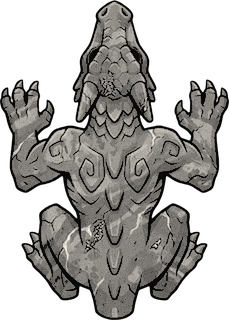
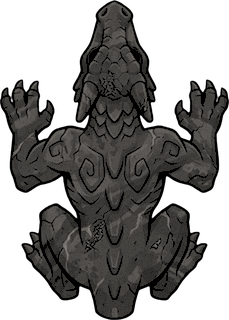
feat(dragon-tide): 宝石の見本3回目 照り返す向きを6か所に・軌道を毎回ランダムに・ガーゴイルの石の絵を暗く（DT-597）
Claude-Session: https://claude.ai/code/session_01PrzQnSZ8MSnuqMoiR2kG67

diff --git a/prototypes/dragon-tide/gem-sample.html b/prototypes/dragon-tide/gem-sample.html
@@ -38,7 +38,7 @@
 </head>
 <body>
 <main>
-  <h1>竜の見た目サンプル：宝石（ルース）2回目</h1>
+  <h1>竜の見た目サンプル：宝石（ルース）3回目</h1>
   <p class="lead">竜は竜のまま、色・質感・光り方だけをルース（裸石）から借りる案（DT-597）。
     照り返しは<strong>竜の向き（と地図上の位置）だけ</strong>で決まる。光源は見せない・動かさない・地面には何も出さない。
     同じ位置・同じ向きなら同じ照り返しになるので、群れが曲がると先頭から順にきらっと光が走る（イワシの群れのつもり）。</p>
@@ -136,6 +136,7 @@ const SPECIES = [
       wingAnchor: { x: 319, y: 66.9 },
     },
     // 普通の石は不透明でほぼ光らない：照り返しは薄く、翼も透けない。差は明るさのむらで出す
+    // DT-597 3回目（Shooter「全然光って見えないのは絵のせい？元の絵をもっと暗く」）: 石の絵を半分ほどの明るさにして、鈍い照り返しが見えるように
     gloss: 0.18, glintColor: "#f2ede4", hueJitter: 5, lightJitter: 0.1, wingAlpha: [1, 1],
   },
 ];
@@ -262,15 +263,13 @@ function drawDragon(c, spec, parts, flapFactor, opts) {
 // 光源は見せない・動かさない。「この向きを向いた竜はきらっとする」という向きを地図に1つ決めておくだけ。
 // 時間は使わないので、同じ位置・同じ向きの竜はいつでも同じ照り返しになる。
 // 群れが曲がると、先頭から順にその向きを通るので、光が群れの中を走って見える（イワシの群れのつもり）。
-const GLINT_HEADING = 0.35;  // きらっとする向き（右やや下へ飛ぶ向きと、その逆。8の字の長い斜めでは光らず、曲がるときに光が群れを走るように選んだ）
+const GLINT_HEADING = 0.35;  // きらっとする向きの基準（ここから60°おきに6つ）
 const GLINT_FULL = 8 * Math.PI / 180; // この角度までは照り返しが最大
 const GLINT_EDGE = 28 * Math.PI / 180; // ここまでで段々に消える
-// 向きの窓は2つ：きらっとする向きへ飛ぶ（肩を横切る照り返し）と、その逆へ飛ぶ（背筋の照り返し）。
-// 窓どうしが離れているので、照り返しの絵が切り替わるのは必ず照り返しが0のとき（いきなり切り替わらない）
-const GLINT_WINDOWS = [
-  { center: 0, image: 3 },
-  { center: Math.PI, image: 0 },
-];
+// 向きの窓は6つ（DT-597 3回目・Shooter「光る角度ポイントを3倍くらいに。角度幅ではなく箇所の数」）：60°おき。
+// 1つの窓の幅（±28°）は前のまま。窓どうしの間に 4° ずつ照り返しが0の向きが残るので、
+// 照り返しの絵が切り替わるのは必ず照り返しが0のとき（いきなり切り替わらない）
+const GLINT_WINDOWS = [0, 1, 2, 3, 4, 5].map((k) => ({ center: k * Math.PI / 3, image: [3, 1, 0, 3, 2, 0][k] }));
 // 「角度＋位置」のとき：地図に固定した斜めの縞の上にいる竜だけが照り返す（縞は描かない）
 const STRIPE_ANGLE = 0.6;
 const STRIPE_SPACING = 150;
@@ -335,7 +334,7 @@ function setupCanvas(canvas, cssW, cssH) {
   return { ctx, dpr, w: cssW, h: cssH };
 }
 
-// ---- 1. 群れ：プレイヤーの引いた線（8の字）をなぞって飛ぶ ----
+// ---- 1. 群れ：プレイヤーの引いた線（毎回ちがう形）をなぞって飛ぶ ----
 const state = { filter: "all", usePosition: false, showPath: true, glintOn: true, paused: false };
 const FLOCK_SPEED = 75;          // 群れの速さ（論理px/秒）
 const FLOCK_ALONG = 85;          // 群れの前後の広がり（半分）
@@ -343,19 +342,38 @@ const FLOCK_ACROSS = 34;         // 群れの左右の広がり（半分）
 const DRAGONS_PER_SPECIES = 40;
 const DRAGONS_PER_SPECIES_MIXED = 12;
 const TRAY_HEIGHT = 440;
-const PATH_SAMPLES = 720;
+const PATH_SAMPLES = 2400;
+// なぞる線は毎回ちがう形（DT-597 3回目・Shooter「サンプルの軌道はもっとランダムに」）。
+// 閉じた曲線にするため、ゆらぎの波（1〜PATH_HARMONICS 番目）を重ねて作り、枠に収める
+const PATH_HARMONICS = 7;
+let pathSeed = 1 + Math.floor(Date.now() % 100000);   // ページを開くたびに変わる（「軌道を変える」でも変わる）
 let trayView = null;
 let dragons = [];
 let path = null;
 
 function buildPath(width, height) {
-  const cx = width / 2, cy = height / 2;
-  const ax = width * 0.36, ay = height * 0.33;
+  const waves = [];
+  for (let k = 1; k <= PATH_HARMONICS; k++) {
+    // 高い波ほど小さく（大きくうねりつつ、ときどき小さく曲がる）
+    const amp = 1 / Math.pow(k, 1.1);
+    waves.push({ k, ax: amp * (hash01(pathSeed, k * 4) - 0.5), px: hash01(pathSeed, k * 4 + 1) * Math.PI * 2,
+                 ay: amp * (hash01(pathSeed, k * 4 + 2) - 0.5), py: hash01(pathSeed, k * 4 + 3) * Math.PI * 2 });
+  }
+  const raw = [];
+  let minX = Infinity, maxX = -Infinity, minY = Infinity, maxY = -Infinity;
+  for (let i = 0; i <= PATH_SAMPLES; i++) {
+    const u = (i / PATH_SAMPLES) * Math.PI * 2;
+    let x = 0, y = 0;
+    for (const w of waves) { x += w.ax * Math.sin(w.k * u + w.px); y += w.ay * Math.sin(w.k * u + w.py); }
+    raw.push({ x, y });
+    minX = Math.min(minX, x); maxX = Math.max(maxX, x); minY = Math.min(minY, y); maxY = Math.max(maxY, y);
+  }
+  const margin = FLOCK_ALONG * 0.6;
+  const sx = (width - margin * 2) / Math.max(1e-6, maxX - minX), sy = (height - margin * 2) / Math.max(1e-6, maxY - minY);
   const points = [];
   let length = 0;
   for (let i = 0; i <= PATH_SAMPLES; i++) {
-    const u = (i / PATH_SAMPLES) * Math.PI * 2;
-    const p = { x: cx + ax * Math.sin(u), y: cy + ay * Math.sin(u * 2), s: 0 };
+    const p = { x: margin + (raw[i].x - minX) * sx, y: margin + (raw[i].y - minY) * sy, s: 0 };
     if (i > 0) {
       const q = points[i - 1];
       length += Math.hypot(p.x - q.x, p.y - q.y);
@@ -522,7 +540,7 @@ function drawCompare(time) {
 
 // ---- ボタン ----
 const MODE_NOTES = {
-  angle: "角度だけ：決まった向き（±8°で最大、±28°までで段々に消える）を向いた竜だけが照り返す。群れが曲がると先頭から順に光が走る。",
+  angle: "角度だけ：決まった向き（60°おきに6か所。それぞれ±8°で最大、±28°までで段々に消える）を向いた竜だけが照り返す。群れが曲がると先頭から順に光が走る。",
   position: "角度＋位置：上の条件に加えて、地図に固定した斜めの縞（見えない）の上にいるときだけ照り返す。同じ場所を同じ向きで通れば毎回同じところで光る。",
 };
 
@@ -565,6 +583,7 @@ function buildChips() {
     { prop: "showPath", label: "なぞる線" },
     { prop: "paused", label: "止める" },
   ];
+  makeChip(optionChips, "軌道を変える", false, () => { pathSeed++; setupTray(); });
   for (const t of toggles) {
     makeChip(optionChips, t.label, state[t.prop], (b) => {
       state[t.prop] = !state[t.prop];
